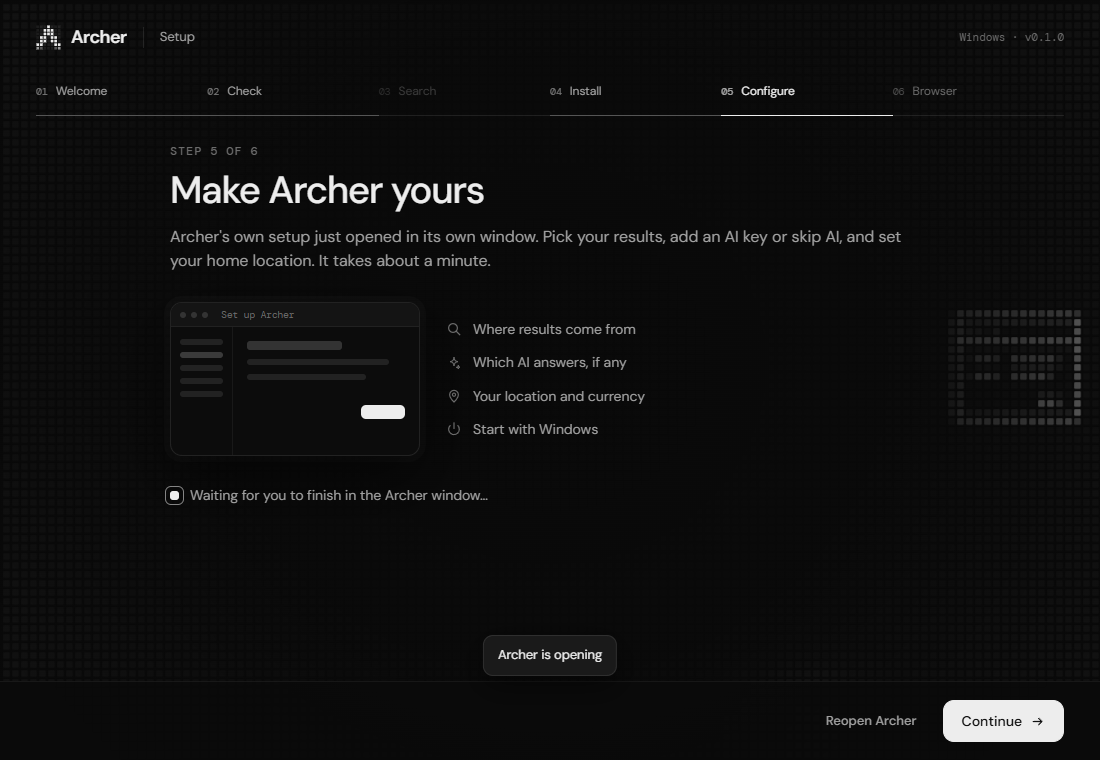
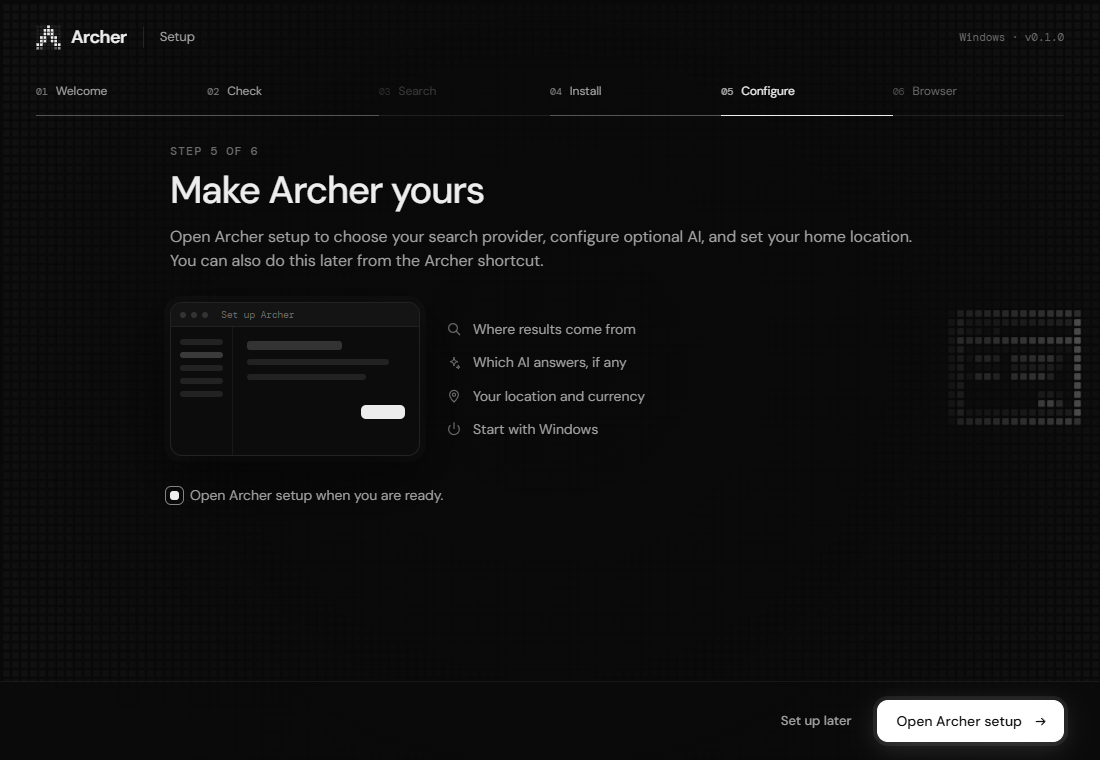
Reduce installer animation work and require explicit step navigation

diff --git a/installer/ui/setup.js b/installer/ui/setup.js
@@ -83,7 +83,7 @@ class Field {
   }
 
   layout() {
-    const w = this.c.clientWidth, h = this.c.clientHeight, dpr = devicePixelRatio || 1;
+    const w = this.c.clientWidth, h = this.c.clientHeight, dpr = Math.min(devicePixelRatio || 1, 1.5);
     if (!w || !h) return;
     this.c.width = Math.round(w * dpr); this.c.height = Math.round(h * dpr);
     this.g.setTransform(dpr, 0, 0, dpr, 0, 0);
@@ -101,6 +101,11 @@ class Field {
     const sg = sp.getContext("2d"); sg.scale(dpr, dpr); sg.fillStyle = "#ededed";
     sg.beginPath(); sg.roundRect(1 / dpr, 1 / dpr, sq, sq, sq * 0.22); sg.fill();
     this.sprite = sp; this.sq = sq;
+    this.background = document.createElement("canvas");
+    this.background.width = this.c.width; this.background.height = this.c.height;
+    const bg = this.background.getContext("2d"); bg.scale(dpr, dpr); bg.globalAlpha = .05;
+    for (let r = 0; r < this.rows; r++) for (let c = 0; c < this.cols; c++)
+      bg.drawImage(sp, this.ox + c * p - sq / 2, this.oy + r * p - sq / 2, sp.width / dpr, sp.height / dpr);
     this.shape(this.kind, true);
   }
 
@@ -142,11 +147,14 @@ class Field {
   }
 
   shape(kind, instant) {
-    this.kind = kind;
+    this.kind = kind; this.dirty = true;
     if (!this.cols) return;
     const map = this.sample(kind), now = performance.now(), cx = this.cols / 2, cy = this.rows * 0.4;
     const maxD = Math.hypot(cx, this.rows);
+    this.settlesAt = now + 2400; this.settled = false;
+    this.active = [];
     for (let k = 0; k < map.length; k++) {
+      if (map[k] > .001 || this.cur[k] > .001) this.active.push(k);
       const c = k % this.cols, r = (k / this.cols) | 0;
       this.from[k] = instant ? map[k] : this.cur[k];
       this.to[k] = map[k];
@@ -167,38 +175,44 @@ class Field {
 
   ripple(x, y, strength = 1) {
     if (REDUCED) return;
+    this.ripples = this.ripples.slice(-3);
     this.ripples.push({ x: x ?? this.w / 2, y: y ?? this.h * 0.4, t: performance.now(), s: strength });
   }
 
   frame(now) {
     requestAnimationFrame((t) => this.frame(t));
-    if (!this.cols || document.hidden) return;
+    if (!this.cols || document.hidden || now - (this.lastFrame || 0) < 1000 / 30) return;
+    if (REDUCED && !this.dirty && this.lastProgress === this.progress) return;
+    this.lastFrame = now; this.lastProgress = this.progress; this.dirty = false;
+    if (!this.settled && now > this.settlesAt) { this.active = this.active.filter(k => this.to[k] > .001); this.settled = true; }
     const g = this.g, p = this.pitch, cols = this.cols, rows = this.rows, sp = this.sprite;
     const DUR = 700, half = this.sq / 2, base = 0.05;
     g.clearRect(0, 0, this.w, this.h);
+    g.drawImage(this.background, 0, 0, this.w, this.h);
     this.ripples = this.ripples.filter((r) => now - r.t < 2400);
     const box = this.box, prog = this.progress;
     const progRow = box && prog != null ? box.bottom - (box.bottom - box.top) * prog : null;
     const scanY = this.scan ? ((now / 2300) % 1) * (rows + 16) - 8 : null;
     const blink = this.caret && Math.floor(now / 560) % 2 === 0;
-    for (let r = 0; r < rows; r++) {
-      const y = this.oy + r * p;
-      const drift = REDUCED ? 0 : Math.sin(now / 6500) * 20;
-      for (let c = 0; c < cols; c++) {
-        const k = r * cols + c, x = this.ox + c * p;
+    const drift = REDUCED ? 0 : Math.sin(now / 6500) * 20;
+    const effects = !REDUCED && (this.scan || this.ripples.length || this.mx > -1e3);
+    const count = effects ? cols * rows : this.active.length;
+    for (let n = 0; n < count; n++) {
+        const k = effects ? n : this.active[n], r = (k / cols) | 0, c = k % cols;
+        const y = this.oy + r * p, x = this.ox + c * p;
         let t = (now - this.t0[k]) / DUR;
         t = t < 0 ? 0 : t > 1 ? 1 : t;
         const e = 1 - Math.pow(1 - t, 3);
         const v = (this.cur[k] = this.from[k] + (this.to[k] - this.from[k]) * e);
-        let a = base + v * 0.82;
+        let a = v * 0.82;
         if (v > 0.02) {
           if (progRow != null) {
             // Install progress: the shape fills from the bottom; a bright seam rides the edge.
             const lit = r >= progRow ? 1 : 0.22, seam = Math.exp(-Math.pow((r - progRow) / 1.3, 2));
-            a = base + v * 0.82 * lit + seam * v * 0.6;
+            a = v * 0.82 * lit + seam * v * 0.6;
           }
-          if (this.caret && !blink && c >= this.caret[0] - 0.5 && c <= this.caret[1] + 0.5) a = base + v * 0.15;
-          a += Math.sin(now * 0.0021 + this.seed[k] * 40) * 0.05 * v;  // twinkle
+          if (this.caret && !blink && c >= this.caret[0] - 0.5 && c <= this.caret[1] + 0.5) a = v * 0.15;
+          if (!REDUCED) a += Math.sin(now * 0.0021 + this.seed[k] * 40) * 0.05 * v;  // twinkle
           a += this.glow * v * 0.25;
         }
         if (scanY != null) a += Math.exp(-Math.pow((r - scanY) / 2.2, 2)) * (0.1 + v * 0.5);
@@ -213,7 +227,6 @@ class Field {
         if (a < 0.012) continue;
         g.globalAlpha = a > 1 ? 1 : a;
         g.drawImage(sp, x - half, y - half + drift, sp.width / this.dpr, sp.height / this.dpr);
-      }
     }
     g.globalAlpha = 1;
   }
@@ -232,9 +245,6 @@ let onPrimary = null, onSecondary = null, onBack = null;
 nav.primary.addEventListener("click", () => onPrimary && !nav.primary.disabled && onPrimary());
 nav.secondary.addEventListener("click", () => onSecondary && onSecondary());
 nav.back.addEventListener("click", () => onBack && onBack());
-document.addEventListener("keydown", (e) => {
-  if (e.key === "Enter" && !e.target.closest("input, button, summary, a") && onPrimary && !nav.primary.disabled) onPrimary();
-});
 
 function setNav({ label, primary, disabled = false, secondary = null, back = null, status = "", tone = "" }) {
   nav.label.textContent = label;
@@ -394,19 +404,18 @@ const VIEWS = {
       const note = $("[data-check-note]");
       note.textContent = "Docker isn't installed, so Archer will get results from DuckDuckGo. Install Docker Desktop any time to switch to your own SearXNG in Archer's settings.";
       note.hidden = false;
-      setNav({ label: "Continue", back: () => go("welcome"), status: "Ready to install.", tone: "ok",
+      setNav({ label: "Install Archer", back: () => go("welcome"), status: "Ready to install.", tone: "ok",
         primary: async () => { await api("searxng/choice", { mode: "duckduckgo" }); S.sxMode = "duckduckgo"; go("install"); } });
       return;
     }
     setNav({ label: "Continue", primary: () => go("search"), back: () => go("welcome"), status: "All good.", tone: "ok" });
-    later(() => S.view === "check" && go("search"), 1100);
   },
 
   search() {
     field.shape("target"); readout("SearXNG");
     $$("[data-sx]").forEach((n) => (n.hidden = true));
     $("[data-sx-error]").hidden = true;
-    const skip = { label: "Skip, use DuckDuckGo", run: async () => {
+    const skip = { label: "Install with DuckDuckGo", run: async () => {
       await api("searxng/choice", { mode: "duckduckgo" }); S.sxMode = "duckduckgo";
       $('[data-rail-step=search]').classList.add("is-skipped"); go("install");
     } };
@@ -420,8 +429,7 @@ const VIEWS = {
       field.glow = 0.4; field.ripple();
       api("searxng/choice", { mode: "searxng", url: sx.url, container: sx.container || "" });
       S.sxMode = "searxng"; S.sxUrl = sx.url;
-      setNav({ label: "Continue", primary: () => go("install"), back, status: "Using your SearXNG. Continuing…", tone: "ok" });
-      later(() => S.view === "search" && go("install"), 1900);
+      setNav({ label: "Install Archer", primary: () => go("install"), back, status: "Your SearXNG is ready.", tone: "ok" });
       return;
     }
 
@@ -498,30 +506,32 @@ const VIEWS = {
     field.progress = 1; field.glow = 0.5; field.ripple(); later(() => field.ripple(undefined, undefined, 0.6), 380);
     status_("Archer is installed.", "ok");
     setNav({ label: "Continue", primary: () => go("configure"), status: "Archer is installed.", tone: "ok" });
-    later(() => S.view === "install" && go("configure"), 1500);
   },
 
   configure() {
     field.shape("window"); readout("Your settings");
     const waiting = $("[data-waiting]"), text = $("[data-waiting-text]");
     waiting.classList.remove("is-ok");
-    text.textContent = "Waiting for you to finish in the Archer window…";
+    text.textContent = "Open Archer setup when you are ready.";
     const open = async () => {
       const r = await api("launch", {}).catch(() => ({ ok: false }));
       if (!r.ok) status_("Couldn't start Archer. Use the Archer shortcut on your desktop.", "bad");
-      else toast("Archer is opening");
+      else {
+        S.launched = true; text.textContent = "Waiting for you to finish in the Archer window…";
+        toast("Archer is opening");
+        setNav({ label: "Continue", primary: () => go("browser"), secondary: { label: "Reopen Archer", run: open } });
+      }
     };
-    if (!S.launched) { S.launched = true; open(); }
-    setNav({ label: "Continue", primary: () => go("browser"), secondary: { label: "Reopen Archer", run: open } });
+    setNav({ label: "Open Archer setup", primary: open, secondary: { label: "Set up later", run: () => go("browser") } });
     const poll = async () => {
       if (S.view !== "configure") return;
+      if (!S.launched) { later(poll, 3000); return; }
       const r = await api("onboarded").catch(() => ({}));
       if (r.onboarded) {
         waiting.classList.add("is-ok");
-        text.textContent = "Setup finished in Archer. Nice.";
+        text.textContent = "Archer setup is complete. Select Continue when you are ready.";
         field.glow = 0.4; field.ripple();
         status_("Archer is configured.", "ok");
-        later(() => S.view === "configure" && go("browser"), 1400);
         return;
       }
       later(poll, 1500);
@@ -606,8 +616,7 @@ async function runSearxng(skip) {
   if (snap.state !== "done") return failSx(snap.error, skip);
   S.sxMode = "searxng"; S.sxUrl = snap.result.url;
   field.glow = 0.45; field.ripple(); readout("SearXNG ready");
-  setNav({ label: "Continue", primary: () => go("install"), status: `SearXNG is running at ${snap.result.url}.`, tone: "ok" });
-  later(() => S.view === "search" && go("install"), 1500);
+  setNav({ label: "Install Archer", primary: () => go("install"), status: `SearXNG is running at ${snap.result.url}.`, tone: "ok" });
 }
 
 function failSx(message, skip) {

diff --git a/installer/ui/index.html b/installer/ui/index.html
@@ -157,7 +157,7 @@
     <section class="view" data-view="configure" hidden>
       <p class="kicker" data-rise>Step 5 of 6</p>
       <h2 data-rise>Make Archer yours</h2>
-      <p class="lede" data-rise>Archer's own setup just opened in its own window. Pick your results, add an AI key or skip AI, and set your home location. It takes about a minute.</p>
+      <p class="lede" data-rise>Open Archer setup to choose your search provider, configure optional AI, and set your home location. You can also do this later from the Archer shortcut.</p>
       <div class="handoff" data-rise>
         <div class="mini">
           <div class="mini-bar"><i></i><i></i><i></i><span>Set up Archer</span></div>

diff --git a/docs/release-v0.1.md b/docs/release-v0.1.md
@@ -7,6 +7,8 @@ Download **ArcherSetup.exe** below and run it on Windows 10 or 11. Setup downloa
 ### Included
 
 - Custom installer with a straightforward setup page for location, startup and requirements, a full-background pixel field, morphing artwork in the clear margin, and a compact step indicator.
+- Every step waits for your click before continuing. Opening the companion setup is also explicit.
+- Cached background rendering and a 30 fps animation limit reduce the work done by the installer UI.
 - Install location and startup choices, desktop and Start menu shortcuts, and Windows Installed apps integration.
 - Guided search, AI, personal preferences and browser setup.
 - DuckDuckGo, SearXNG, Google and Brave search; optional cloud AI or local Ollama.
